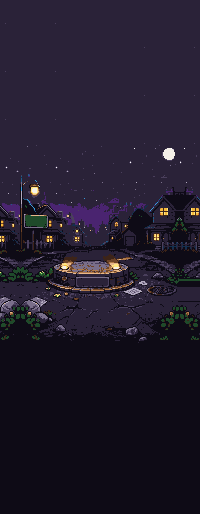
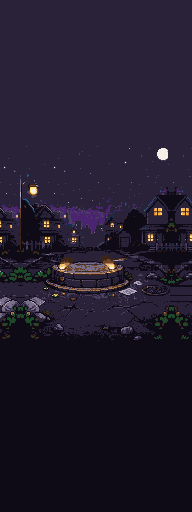
Pigeon cage gone once Turbo Pigeon is unlocked; home without name or sign
- hide_when_unlocked on interactables: no cage (and so no elite key) once
  turbo_pigeon is available or owned; validated, with a test
- Home: no hero name on the plinth; backdrop regenerated without the
  street sign and plinth plate (SpriteCook edit c52e2ecc, 12 credits),
  home_art.py re-measured and its right edge band fixed

diff --git a/tools/art/home_art.py b/tools/art/home_art.py
@@ -4,7 +4,8 @@
     python3 tools/art/home_art.py RAW_DIR [--out assets/ui/home] [--preview DIR]
 
 RAW_DIR holds the downloaded SpriteCook images (asset ids in docs/spritecook-assets.json):
-  backdrop_px.png   "home_backdrop"   160x274 night street (edit of the home concept, no UI / hero)
+  backdrop_px.png   "home_backdrop"   152x272 night street (edit of the first backdrop: no sign, no
+                                      name plate, no UI / hero)
   logo_deco.png     "logo_deco"       68x68 2x2 sheet: leaf sprigs x3, radish critter
   critters.png      "home_critters"   100x100 2x2 sheet: blue, green, purple, red critters
   kit3_sheet1.png   "ui_kit3_sheet1"  kit 3 component sheet (nav icons cut again at a 2x pixel)
@@ -16,16 +17,17 @@ source px per art px instead of kit 3's 16.
 
 The backdrop is very dark and sits between the palette's dark steps, so a plain snap flattens it
 (the sky turns to one INK / NIGHT field). It is snapped with its CIELAB lightness lifted by LIFT
-first, which keeps the lit windows, sign, stone plinth and the purple glow behind the houses.
+first, which keeps the lit windows, stone plinth and the purple glow behind the houses.
 Its sky (rows above SKY_ROWS) still snaps to INK with a noisy INK / NIGHT edge; the concept's sky
 is night blue-purple all the way up, so INK there becomes NIGHT (the stars and moon stay).
 
 It is then widened and heightened so any phone shape shows only art: 20 px more each side, in
 bands (SIDES): sky rows copy a starry stretch of the same rows from inside the picture (mirroring
 would double the moon), the left house rows copy the houses behind the lamp post (it stands at
-x 1), and the road rows are mirrored. Above and below go bands of sky and of road, repeated from
+x 0), and the road rows are mirrored. Above and below go bands of sky and of road, repeated from
 the top and bottom rows with every other copy flipped. backdrop.json gives the plinth top centre
-and the name plate centre in the extended image, so the game can stand the hero on it.
+in the extended image, so the game can stand the hero on it. The art has no sign, plate or
+other text container: the home screen shows no names over the scene.
 """
 import argparse
 import json
@@ -51,12 +53,11 @@ SKY_ROWS = 64  # source rows of open sky (above the lamp and roofs)
 # (first row, last row, source column to copy from, None = mirror the edge, "edge" = repeat the
 # edge column: the right edge's manhole rows, where a mirror would make a second manhole)
 SIDES = {
-    "left": [(0, 52, 30), (52, 130, 28), (130, 274, None)],
-    "right": [(0, 64, 110), (64, 158, None), (158, 182, "edge"), (182, 274, None)],
+    "left": [(0, 52, 30), (52, 130, 28), (130, 272, None)],
+    "right": [(0, 64, 110), (64, 165, None), (165, 182, "edge"), (182, 272, None)],
 }
-# Plinth top centre and name plate centre in the 160x274 source (measured on the image).
-PLINTH = (71, 146)
-PLATE = (72, 162)
+# Plinth top centre in the 152x272 source (measured on the image).
+PLINTH = (68, 147)
 
 ICONS = {"sack": 22, "padlock_big": 22, "mystery": 28}  # source px per art px
 CRITTERS = ["critter_blue", "critter_green", "critter_purple", "critter_red"]  # quadrants, reading order
@@ -128,7 +129,6 @@ def backdrop(src, pal, allowed):
         out[y:end] = band[:end - y]
     meta = {
         "plinth": [PLINTH[0] + SIDE, PLINTH[1] + SKY],
-        "plate": [PLATE[0] + SIDE, PLATE[1] + SKY],
         "art": [SIDE, SKY, w, h],
     }
     return out, meta

diff --git a/docs/ASSET_LOG.md b/docs/ASSET_LOG.md
@@ -58,6 +58,7 @@ SpriteCook credits (Starter plan, 800 per month). Ask before every generation. N
 | 2026-10-13 | Home backdrop: night street, lit houses, lamp, blank sign, manhole, foliage, empty plinth with lamps and a blank name plate (no hero / UI / text) | generate_game_art, NB2.1 1K, pixel, 9:16, background included, 180x320 hint, smart crop off, palette colors passed, edit of the home concept `e941feb9` | 12 | 12 | job `237fc715`, asset `5d717373-4685-46ec-a473-5142e1d207f2` (160x274, sha12 5f00ef94aab5). Owner-approved (Phase 9 backdrop art). `tools/art/home_art.py`: snapped with CIELAB lightness x1.45 (a plain snap flattened it), sky INK -> NIGHT, widened 20 px a side and given 120 rows of sky / road -> `assets/ui/home/backdrop.png` (200x514) + `backdrop.json` (plinth anchor). Balance after: 71 |
 | 2026-10-13 | Logo decorations (2x2 sheet): three leaf sprigs, radish critter | generate_game_art, NB2.1 1K, pixel, 64px hint, smart crop off, palette colors passed, style refs home concept `e941feb9` + Sir Loaf `fee7d917` + icon sheet 1 | 12 | 12 | job `23d0eafb`, asset `bb601673-0d01-4890-96f6-69d6a5e0d573` (68x68, sha12 7c7a0de4bef1). Halved by `tools/art/home_art.py` -> `assets/ui/home/leaf_a/b/c.png`, `radish.png` (drawn 1x on the logo). Balance after: 59 |
 | 2026-10-13 | Home critters (2x2 sheet): blue, green, purple, red round critters | generate_game_art, NB2.1 1K, pixel, 64px hint, smart crop off, palette colors passed, style refs home concept + Sir Loaf + the new backdrop `5d717373` | 12 | 12 | job `61c7b988`, asset `71468ff7-7dc2-4d4c-8760-edbb21312a2a` (100x100, sha12 95c5eabca420). Halved by `tools/art/home_art.py` -> `assets/ui/home/critter_*.png` (~20 px, drawn 2x). Also from owned art, no credits: `icon_sack` / `icon_padlock_big` / `icon_mystery` re-cut from kit 3 sheet `4562775f` at a 2x pixel; `play_tri` hand-pixelled. Balance after: 47 |
+| 2026-10-13 | Home backdrop v2: same street with the green street sign and the plinth's name plate removed (no text containers) | generate_game_art, NB2.1 1K, pixel, 9:16, background included, 180x320 hint, smart crop off, palette colors passed, edit of the first backdrop `5d717373` | 12 | 12 | job `5fc99a46`, asset `c52e2ecc-5f92-4b2d-897b-ccc92c68211b` (152x272, sha12 2ad348064030). Owner asked for it. `tools/art/home_art.py` (plinth re-measured at 68,147; right edge band changed so no foliage bar) -> `assets/ui/home/backdrop.png` (192x512). Balance after: 35 |
 
 **Running total:** 753
 

diff --git a/TASKS.md b/TASKS.md
@@ -699,6 +699,8 @@ Rules: Titan never under 6 (stickers only), Inter never under 7; text on world a
 - [x] Home (owner, phone): nav tile labels and the next-unlock title Titan 7 -> 6 (hero plate name stays 7), progress text 9 -> 7, a ready reward at 1x 16 px in its slot (shrinking it to 11 px broke the clock icon); checked on the Xiaomi 15T
 - [x] In-run HUD (owner): weapon / manual strip, item row and pickup card back on the plain `lv_frame` plate with 12 px icons (cards, pause and menus keep `icon_frame`)
 - [ ] Not switched yet (still the coarse cut): `lv_window`, `lv_card`, `lv_header`, `lv_sticker`, `plate_dark`, `panel_dark`, HUD tracks; their fine cuts look close but have stray pixels on the dark faces. Buttons / toggles keep `lv_frame`
+- [x] Pigeon cage (owner): `hide_when_unlocked` on `data/interactables/pigeon_cage.json` ("turbo_pigeon") leaves the cage off the map once Turbo Pigeon is available or owned; with no cage, elites drop no key (already gated in `Run._elite_killed`). Validated in `game_data.gd`; test `test_no_cage_or_key_once_the_pigeon_is_unlocked`
+- [x] Home (owner): no hero name over the plinth; backdrop regenerated without the street sign and the plinth's name plate (SpriteCook edit `c52e2ecc`, 12 credits), `home_art.py` re-measured (plinth 68,147) and its right edge band fixed (no foliage bar). 2208 checks pass
 
 ### Found while building the home (2026-10-13)
 
